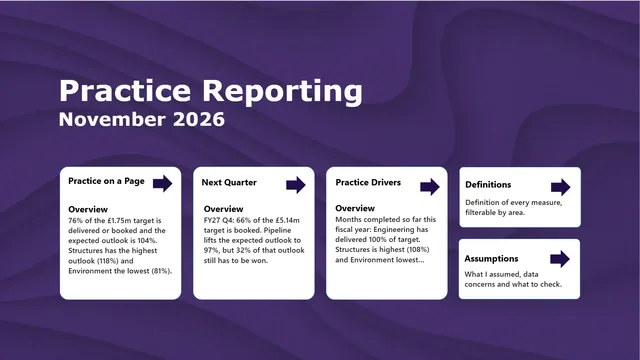
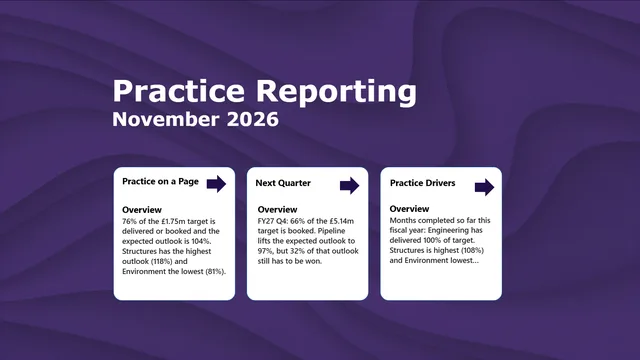
Replace Practice on a Page cover slide
Claude-Session: https://claude.ai/code/session_013VTtdhBDbdFrUGrRuq3ADD

Changed region(s): [[0.0938, 0.4583, 0.9062, 0.8556], [0.0938, 0.2139, 0.6562, 0.3667], [0.9688, 0.0, 1.0, 0.0306]]

diff --git a/data/site.js b/data/site.js
@@ -135,7 +135,7 @@ window.SITE = {
         { src: "practice-on-a-page-4", alt: "Practice Drivers and Trends. Four cards show headcount of 88 with 87.5 effective FTE, target per FTE of £238,674 with an average day rate of £1,184, realised utilisation of 79.9% against an 80% target, and year-to-date delivery at 99.8% of target (£13,980,000). A table compares Structures, Water, Transport and Environment on headcount, effective FTE, day rate, available resource days, revenue target, share of total target, year-to-date delivery and realised utilisation. Structures delivers 108.3% of target and Environment 86.1%. A stacked bar chart shows the role mix behind this month's target by practice, with Engineer carrying the largest share at 55%." },
         { src: "practice-on-a-page-5", alt: "Practice Drivers and Trends with the view switched to trends. The same four cards sit above two charts. A column chart compares committed revenue and expected outlook as a percentage of target for each fiscal quarter against a 100% target line: committed is 99.3% in Q1, 99.7% in Q2, 92.8% in Q3 and 66.3% in Q4, while the outlook is 99.3%, 99.7%, 101.7% and 97.0%. A line chart compares monthly revenue target with committed revenue from March 2026 to February 2027. Committed revenue reaches target in 5 of 12 months, and the biggest shortfall is February 2027, £668,000 below target." },
         { src: "practice-on-a-page-6", alt: "The Definitions page, a metrics dictionary. A table answers “What does each metric mean?” with columns for area, metric, what it means and unit, and two dropdown filters to select a metric or an area. Rows shown include Current Month Start, Working Days, Revenue Target and Gross Capacity Value, grouped under Period and context and Target and capacity." },
-        { src: "practice-on-a-page-7", alt: "The Practice Reporting landing slide for November 2026, on a purple background. Five white cards link to the report sections: Practice on a Page, Next Quarter, Practice Drivers, Definitions and Assumptions. Each card gives the headline finding in plain language, for example that 76% of the £1.75 million target is delivered or booked and the expected outlook is 104%." }
+        { src: "practice-on-a-page-7", alt: "The Practice Reporting landing slide for November 2026, on a purple background. Three white cards, each with an arrow, link to the report sections: Practice on a Page, Next Quarter and Practice Drivers. Each card gives an overview in plain language. Practice on a Page says 76% of the £1.75 million target is delivered or booked and the expected outlook is 104%, with Structures highest at 118% and Environment lowest at 81%. Next Quarter says 66% of the £5.14 million FY27 Q4 target is booked, and a pipeline lifts the outlook to 97%, but 32% of that outlook still has to be won. Practice Drivers says Engineering has delivered 100% of target for the months completed, with Structures highest at 108%." }
       ]
     },
     {

diff --git a/assets/js/app.js b/assets/js/app.js
@@ -15,7 +15,7 @@
     return node;
   }
   var IMG = "assets/img/projects/";
-  var ASSET_V = "3"; /* bump when an image file is replaced, so browsers fetch the new one */
+  var ASSET_V = "4"; /* bump when an image file is replaced, so browsers fetch the new one */
 
   /* ---------- Projects ---------- */
   var grid = document.getElementById("project-grid");

diff --git a/index.html b/index.html
@@ -225,8 +225,8 @@
     </nav>
   </div>
 </footer>
-<script src="data/site.js?v=17"></script>
+<script src="data/site.js?v=18"></script>
 <script src="assets/js/nav.js?v=7"></script>
-<script src="assets/js/app.js?v=8"></script>
+<script src="assets/js/app.js?v=9"></script>
 </body>
 </html>
